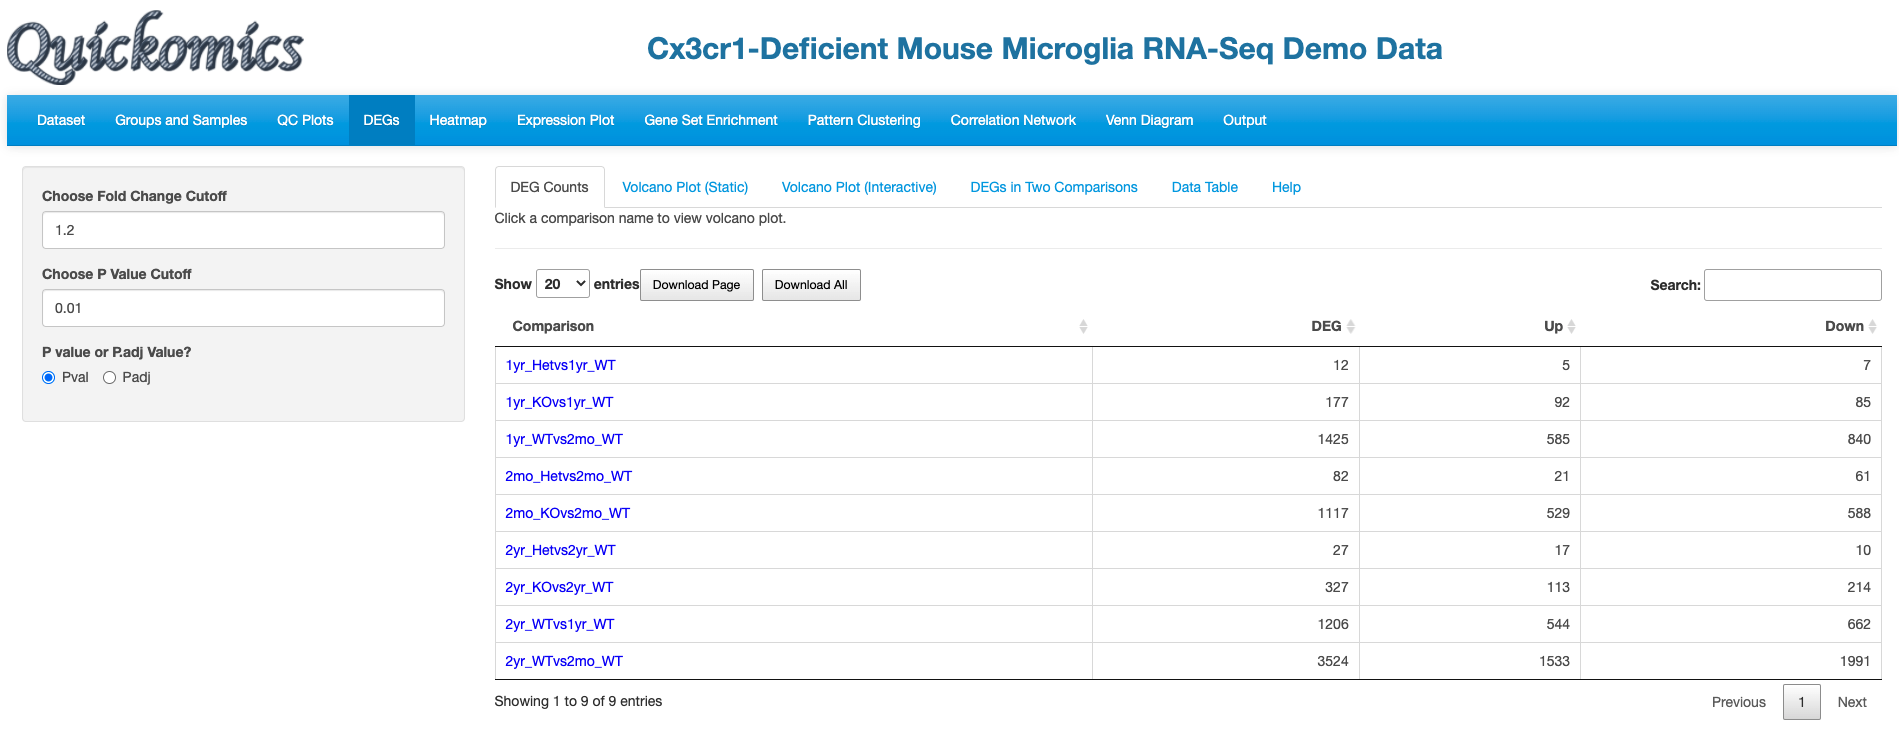
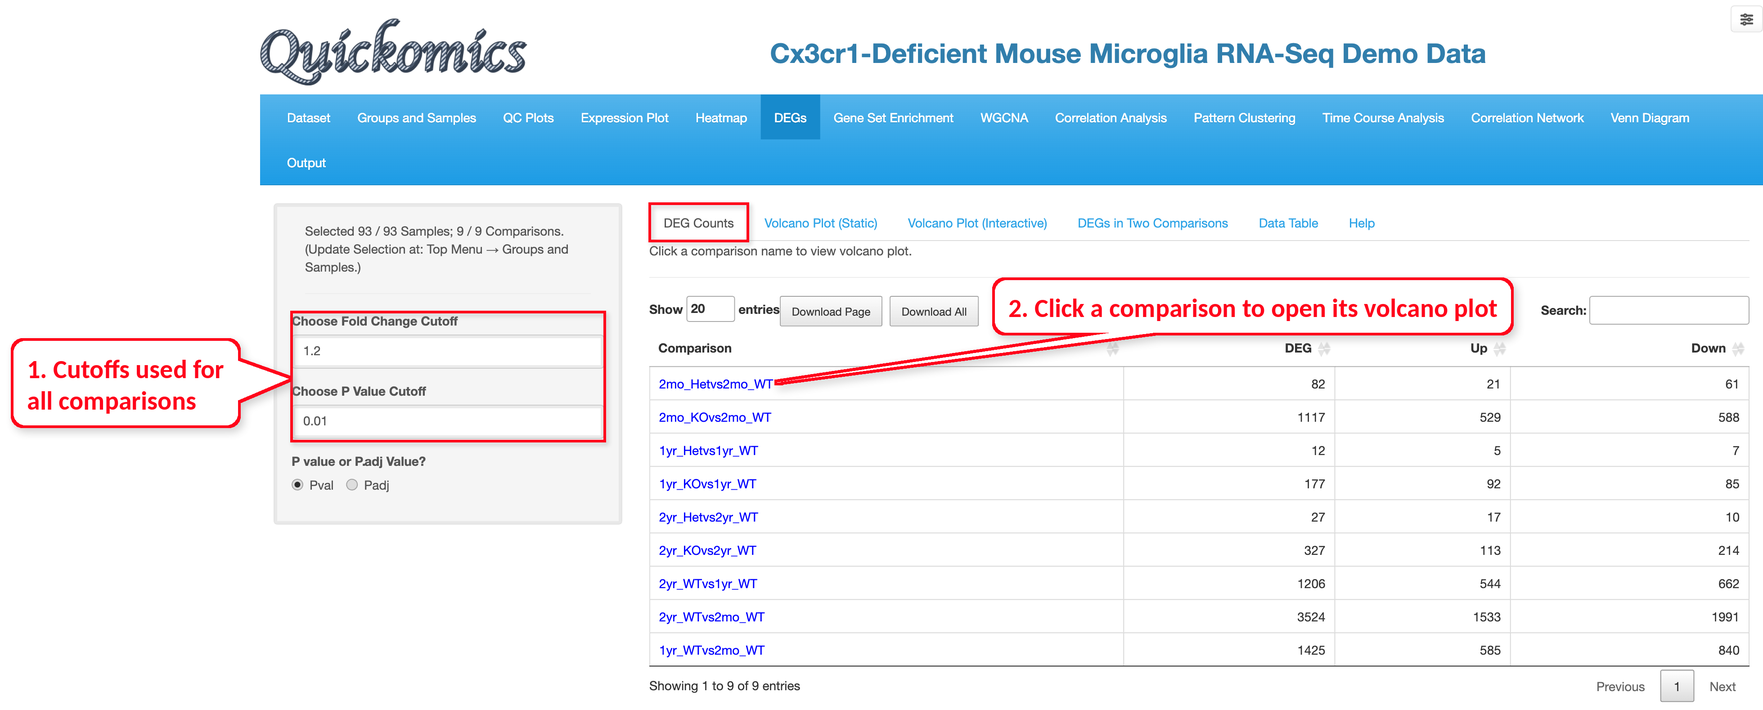
DEG chapter: new 5.1 and 5.2 figures and text with 2mo_Hetvs2mo_WT

diff --git a/tutorial/docs/deg-module.html b/tutorial/docs/deg-module.html
@@ -224,12 +224,12 @@
 <div id="volcano-plot-static" class="section level2 hasAnchor" number="5.2">
 <h2><span class="header-section-number">5.2</span> Volcano Plot (Static)<a href="deg-module.html#volcano-plot-static" class="anchor-section" aria-label="Anchor link to header"></a></h2>
 <p>This plot reveals the differentially expressed genes provided in the input data file. By default, the Fold change Cutoff is set to 1.2 and the P value Cutoff is set to 0.01. Users have the option to change any of these parameters. For more advanced display options, they can set the “Show More Options” to “Yes” to customize other settings.</p>
-<p>The red dots are indicative of all genes that pass the Fold Change and P value cutoff, while the green dots are indicative of genes that only pass the P value cutoff. By default, 50 randomly chosen DEGs are labeled.</p>
+<p>The red dots are indicative of all genes that pass the Fold Change and P value cutoff, while the green dots are indicative of genes that only pass the P value cutoff. By default, the DEGs with the largest fold changes are labeled, up to 50 genes. In the example below, we selected the 2mo_Hetvs2mo_WT comparison with the default parameters; 82 genes pass the cutoffs, 21 up- and 61 down-regulated.</p>
 <p><a href="Figures/FigureS5.2_1.png"><img src="Figures/FigureS5.2_1.png" /></a></p>
-<p>For demonstration purposes, we have changed the following attributes to highlight a few genes in this dataset. We have selected the 2mo_KOvs2mo_WT comparison, where <a href="https://www.life-science-alliance.org/content/2/6/e201900453" target="_blank">Gyoneva et al., 2019</a> report immune response genes as the top differentially expressed category. To highlight these genes, in the example below, we select an “Immune Response” dataset from the Molecular Signatures Database (MSigDB) to highlight the genes by adding labels to the volcano plot. As MSigDB contains only human gene lists and the demo dataset is from mouse, Quickomics does a quick conversion of the names of Human genes to Mouse genes by changing the letters after the first one to lowercase. The genes of the selected gene set are listed in the box below the “Select Geneset” button, where genes can be added or removed. If the list contains more genes than the number set by “# of Genes to Label” (50 by default), only that many are labeled. The label color can be changed with “Gene Label Color”. To keep the plot readable, we also set “Max -log10(Stat Value) in plot” to 20 under “Show More Options”. Several of these immune genes, such as Hfe, Cfp and Cybb (down) and Klf6 and Il7r (up), are significantly changed. This view was not available in the original publication.</p>
+<p>For demonstration purposes, we have changed the following attributes to highlight a few genes in this dataset. We kept the 2mo_Hetvs2mo_WT comparison and the default cutoffs. In the example below, we select an “Immune Response” dataset from the Molecular Signatures Database (MSigDB) to highlight the genes by adding labels to the volcano plot. As MSigDB contains only human gene lists and the demo dataset is from mouse, Quickomics does a quick conversion of the names of Human genes to Mouse genes by changing the letters after the first one to lowercase. The genes of the selected gene set are listed in the box below the “Select Geneset” button, where genes can be added or removed. If the list contains more genes than the number set by “# of Genes to Label” (50 by default), only that many are labeled. The label color can be changed with “Gene Label Color”. Of the labeled immune genes, Cfp is among the most strongly down-regulated genes, while most of the others are not significantly changed in 2mo Het microglia.</p>
 <p><a href="Figures/FigureS5.2_2.png"><img src="Figures/FigureS5.2_2.png" /></a></p>
 <p><a href="Figures/FigureS5.2_3.png"><img src="Figures/FigureS5.2_3.png" /></a></p>
-<p>A set of genes can also be shown in a different color. Select “Yes” under “Highlight a Set of Genes in a Different Color?”, enter the genes to highlight, choose their color, and enter the genes from this list that should be labeled; genes entered in the label box are always labeled. Then click “Apply Highlight”. The highlight list and labels work separately from “Label Genes”, so in the example below we set “Label Genes” to “None” and highlighted immune genes that <a href="https://www.life-science-alliance.org/content/2/6/e201900453" target="_blank">Gyoneva et al., 2019</a> report as changed in 2mo KO microglia. Most of them, such as the MHC class II genes (H2-Aa, H2-Ab1, H2-Eb1), Ccr5 and Mmp9, are down-regulated, while Tnf, Egr1 and Klf2 are up-regulated. Genes can also be sent to this list from the interactive volcano plot (Section 5.3).</p>
+<p>A set of genes can also be shown in a different color. Select “Yes” under “Highlight a Set of Genes in a Different Color?”, enter the genes to highlight, choose their color, and enter the genes from this list that should be labeled; genes entered in the label box are always labeled. Then click “Apply Highlight”. The highlight list and labels work separately from “Label Genes”, so in the example below we set “Label Genes” to “None” and highlighted five genes that are significantly changed in the 1yr_Hetvs1yr_WT comparison: Prkcq, Unc13b, Galnt6, Phldb1 and Gm32591. In 2mo_Hetvs2mo_WT, none of them pass the cutoffs, so they are among the grey dots. Genes can also be sent to this list from the interactive volcano plot (Section 5.3).</p>
 <p><a href="Figures/FigureS5.2_4.png"><img src="Figures/FigureS5.2_4.png" /></a></p>
 <p>Under “Show More Options”, “Rasterize plot” draws the dots as a bitmap image while keeping the text and axes sharp, which makes saved plots smaller when there are many genes.</p>
 </div>
